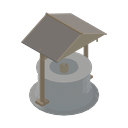
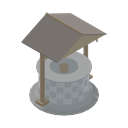
Manual well: the lining is courses of cinder blocks, not brick
The lining material was named Masonry, which the game paints as red brick. It is now real 40 x 20 cm blocks (named Block, with BlockMortar behind them), staggered every
other course, and the well's icon is re-rendered from the model.

diff --git a/tools/make_well_stages.py b/tools/make_well_stages.py
@@ -6,7 +6,7 @@ tools/build_well_group.py makes the manifests first and renders the icons afterw
     blender --background --python tools/make_well_stages.py -- water_well_manual
 
   foundation  a gravel apron and a round concrete footing ring
-  framing     the footing and the stone lining of the shaft (courses of fieldstone), dark water at the bottom
+  framing     the footing and the cinder-block lining of the shaft (courses of blocks), dark water at the bottom
   walls       the lining carried up to a waist-high curb, two timber posts and the cross beam between them
   complete    the posts and beam under a small shingled gable roof, a windlass with its crank, the rope and a bucket
 
@@ -27,7 +27,8 @@ import make_silo_stages as silo         # band, tube, disc, cone (round shapes)
 STRUCTURES = base.STRUCTURES
 WELLS = ['water_well_manual']
 SIDES = 24
-COURSE_H = 0.13
+COURSE_H = 0.2           # one course of cinder blocks (a block is 20 cm tall and 40 cm long)
+BLOCKS = 10              # blocks round the shaft: 10 x 40 cm is the ring's circumference at its middle radius
 FOOT_H = 0.18
 R_OUT, R_IN = 0.74, 0.46
 
@@ -36,7 +37,9 @@ def mats():
     return {
         'concrete': base.material('Concrete', (0.6, 0.6, 0.58), 0.95),
         'gravel': base.material('Gravel', (0.55, 0.53, 0.5), 1.0),
-        'stone': base.material('Masonry', (0.62, 0.6, 0.56), 0.95),
+        # NOT named "Masonry": the game lays a red brick picture on every material with that name (StructureLook.cs). These are real cinder-block courses.
+        'stone': base.material('Block', (0.64, 0.64, 0.62), 0.95),
+        'mortar': base.material('BlockMortar', (0.78, 0.78, 0.76), 1.0),
         'water': base.material('Water', (0.08, 0.16, 0.22), 0.1),
         'log': base.material('Log', (0.5, 0.36, 0.22), 0.9),
         'wood': base.material('Plank', (0.62, 0.48, 0.3), 0.9),
@@ -51,12 +54,34 @@ def foundation(b, fb, M):
     silo.tube(fb, 0.82, 0.42, 0.0, FOOT_H, M['concrete'], n=SIDES)                                # the footing ring
 
 
+def block_ring(b, r_out, r_in, z0, z1, n, phase, m, gap=0.012):
+    """One course of cinder blocks: n wedge blocks round the shaft with a mortar gap between neighbours (the mortar tube behind them shows in the gaps)."""
+    i = b.mat_index(m)
+    step = 2.0 * math.pi / n
+    ga = gap / r_out
+    for k in range(n):
+        a0, a1 = phase + k * step + ga / 2, phase + (k + 1) * step - ga / 2
+        v = {}
+        for zi, z in ((0, z0), (1, z1)):
+            for ri, r in ((0, r_in), (1, r_out)):
+                for ai, a in ((0, a0), (1, a1)):
+                    v[(zi, ri, ai)] = b.bm.verts.new((r * math.cos(a), r * math.sin(a), z))
+        for quad in (((0, 1, 0), (0, 1, 1), (1, 1, 1), (1, 1, 0)),       # outer face
+                     ((0, 0, 0), (1, 0, 0), (1, 0, 1), (0, 0, 1)),       # inner face
+                     ((1, 0, 0), (1, 1, 0), (1, 1, 1), (1, 0, 1)),       # top
+                     ((0, 0, 0), (0, 0, 1), (0, 1, 1), (0, 1, 0)),       # bottom
+                     ((0, 0, 0), (0, 1, 0), (1, 1, 0), (1, 0, 0)),       # one end
+                     ((0, 0, 1), (1, 0, 1), (1, 1, 1), (0, 1, 1))):      # the other end
+            f = b.bm.faces.new([v[q] for q in quad])
+            f.material_index = i
+
+
 def lining(b, M, courses):
-    """The stone lining: stacked courses, each a hollow ring, the joints staggered by a turn and the radius varying a little."""
+    """The lining: courses of cinder blocks, every other course shifted half a block so the joints stagger, on a mortar tube that shows in the joints."""
     for k in range(courses):
         z0 = FOOT_H + k * COURSE_H
-        r = R_OUT + (0.012 if k % 2 else 0.0)
-        silo.tube(b, r, R_IN, z0, z0 + COURSE_H * 0.97, M['stone'], n=SIDES)
+        silo.tube(b, R_OUT - 0.02, R_IN + 0.02, z0, z0 + COURSE_H, M['mortar'], n=SIDES)
+        block_ring(b, R_OUT, R_IN, z0 + 0.006, z0 + COURSE_H - 0.006, BLOCKS, (math.pi / BLOCKS) * (k % 2), M['stone'])
     silo.disc(b, R_IN - 0.01, FOOT_H + 0.05, M['water'], n=SIDES)                                  # the dark water far down the shaft
     # a cap stone ring on the top course
     ztop = FOOT_H + courses * COURSE_H
@@ -65,13 +90,13 @@ def lining(b, M, courses):
 
 def framing(b, fb, M):
     foundation(b, fb, M)
-    lining(b, M, 4)
+    lining(b, M, 2)
 
 
 def walls(b, fb, M, roofed=False):
     foundation(b, fb, M)
-    lining(b, M, 6)
-    ztop = FOOT_H + 6 * COURSE_H + 0.05
+    lining(b, M, 4)
+    ztop = FOOT_H + 4 * COURSE_H + 0.05
     for sx in (-0.88, 0.88):
         b.log((sx, 0.0, FOOT_H), (sx, 0.0, 2.05), 0.07, M['log'], sides=8)              # the two posts
         b.box(sx - 0.14, sx + 0.14, -0.14, 0.14, FOOT_H, FOOT_H + 0.08, M['log'])         # their feet
